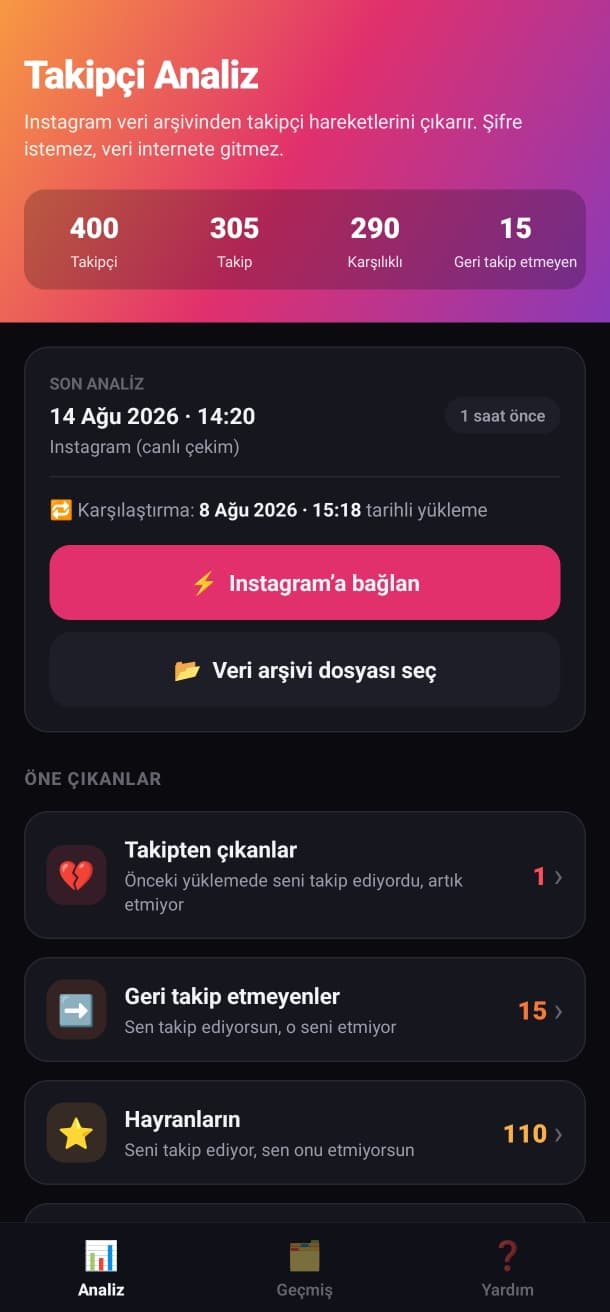
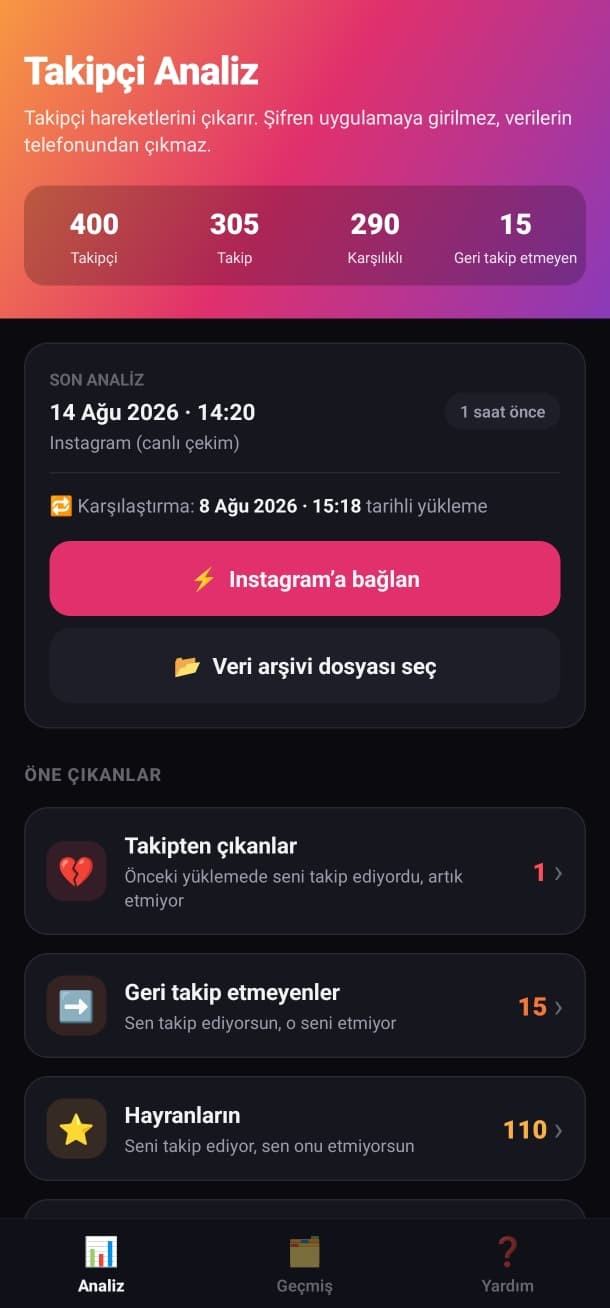
README: üç ekran görüntülü galeri kur
Ana ekran görüntüsü v1.2.2'nin düzeltilmiş üst yazısıyla yenilendi; bağlanma
akışı ve geçmiş/karşılaştırma ekranları eklendi. Üçü de docs/screenshots/
altında, Türkçe ve İngilizce README'lerde üç sütunlu tabloda gösteriliyor.

diff --git a/README.en.md b/README.en.md
@@ -18,9 +18,24 @@ No server, no account, no ads — everything stays on your phone.
 
 <br />
 
-<img src="docs/screenshots/ana-ekran.jpeg" alt="Home screen showing summary counts, last-fetch card and the highlighted lists" width="300" />
+<table>
+<tr>
+<td align="center" valign="top" width="33%">
+<img src="docs/screenshots/ana-ekran.jpeg" alt="Home screen with summary counts, last-fetch card and the highlighted lists" width="240" />
+<br /><sub><b>Home</b><br />Summary counts, last fetch info<br />and the highlighted lists</sub>
+</td>
+<td align="center" valign="top" width="33%">
+<img src="docs/screenshots/instagrama-baglan.jpeg" alt="Connect screen: fetch confirmation and warning after logging in" width="240" />
+<br /><sub><b>Connect to Instagram</b><br />Login happens on Instagram's own page;<br />an explicit warning before fetching</sub>
+</td>
+<td align="center" valign="top" width="33%">
+<img src="docs/screenshots/gecmis.jpeg" alt="History screen: stored snapshots and the newer/older comparison picker" width="240" />
+<br /><sub><b>History</b><br />Stored snapshots and which two<br />get compared</sub>
+</td>
+</tr>
+</table>
 
-<sub>Home screen — summary counts, last fetch info and the highlighted lists</sub>
+<sub>The interface is in Turkish.</sub>
 
 </div>
 

diff --git a/README.md b/README.md
@@ -20,9 +20,22 @@ Sunucu yok, hesap yok, reklam yok — her şey telefonunda kalır.
 
 <br />
 
-<img src="docs/screenshots/ana-ekran.jpeg" alt="Ana ekran: özet sayılar, son analiz kartı ve öne çıkan listeler" width="300" />
-
-<sub>Ana ekran — özet sayılar, son çekim bilgisi ve öne çıkan listeler</sub>
+<table>
+<tr>
+<td align="center" valign="top" width="33%">
+<img src="docs/screenshots/ana-ekran.jpeg" alt="Ana ekran: özet sayılar, son çekim kartı ve öne çıkan listeler" width="240" />
+<br /><sub><b>Ana ekran</b><br />Özet sayılar, son çekim bilgisi ve<br />öne çıkan listeler</sub>
+</td>
+<td align="center" valign="top" width="33%">
+<img src="docs/screenshots/instagrama-baglan.jpeg" alt="Instagram'a bağlan ekranı: giriş yapıldıktan sonra çekim onayı ve uyarı" width="240" />
+<br /><sub><b>Instagram'a bağlan</b><br />Giriş Instagram'ın kendi sayfasında;<br />çekimden önce açık uyarı</sub>
+</td>
+<td align="center" valign="top" width="33%">
+<img src="docs/screenshots/gecmis.jpeg" alt="Geçmiş ekranı: kayıtlı çekimler ve Yeni/Eski karşılaştırma seçimi" width="240" />
+<br /><sub><b>Geçmiş</b><br />Kayıtlı çekimler ve hangi ikisinin<br />karşılaştırılacağı seçimi</sub>
+</td>
+</tr>
+</table>
 
 </div>
 
